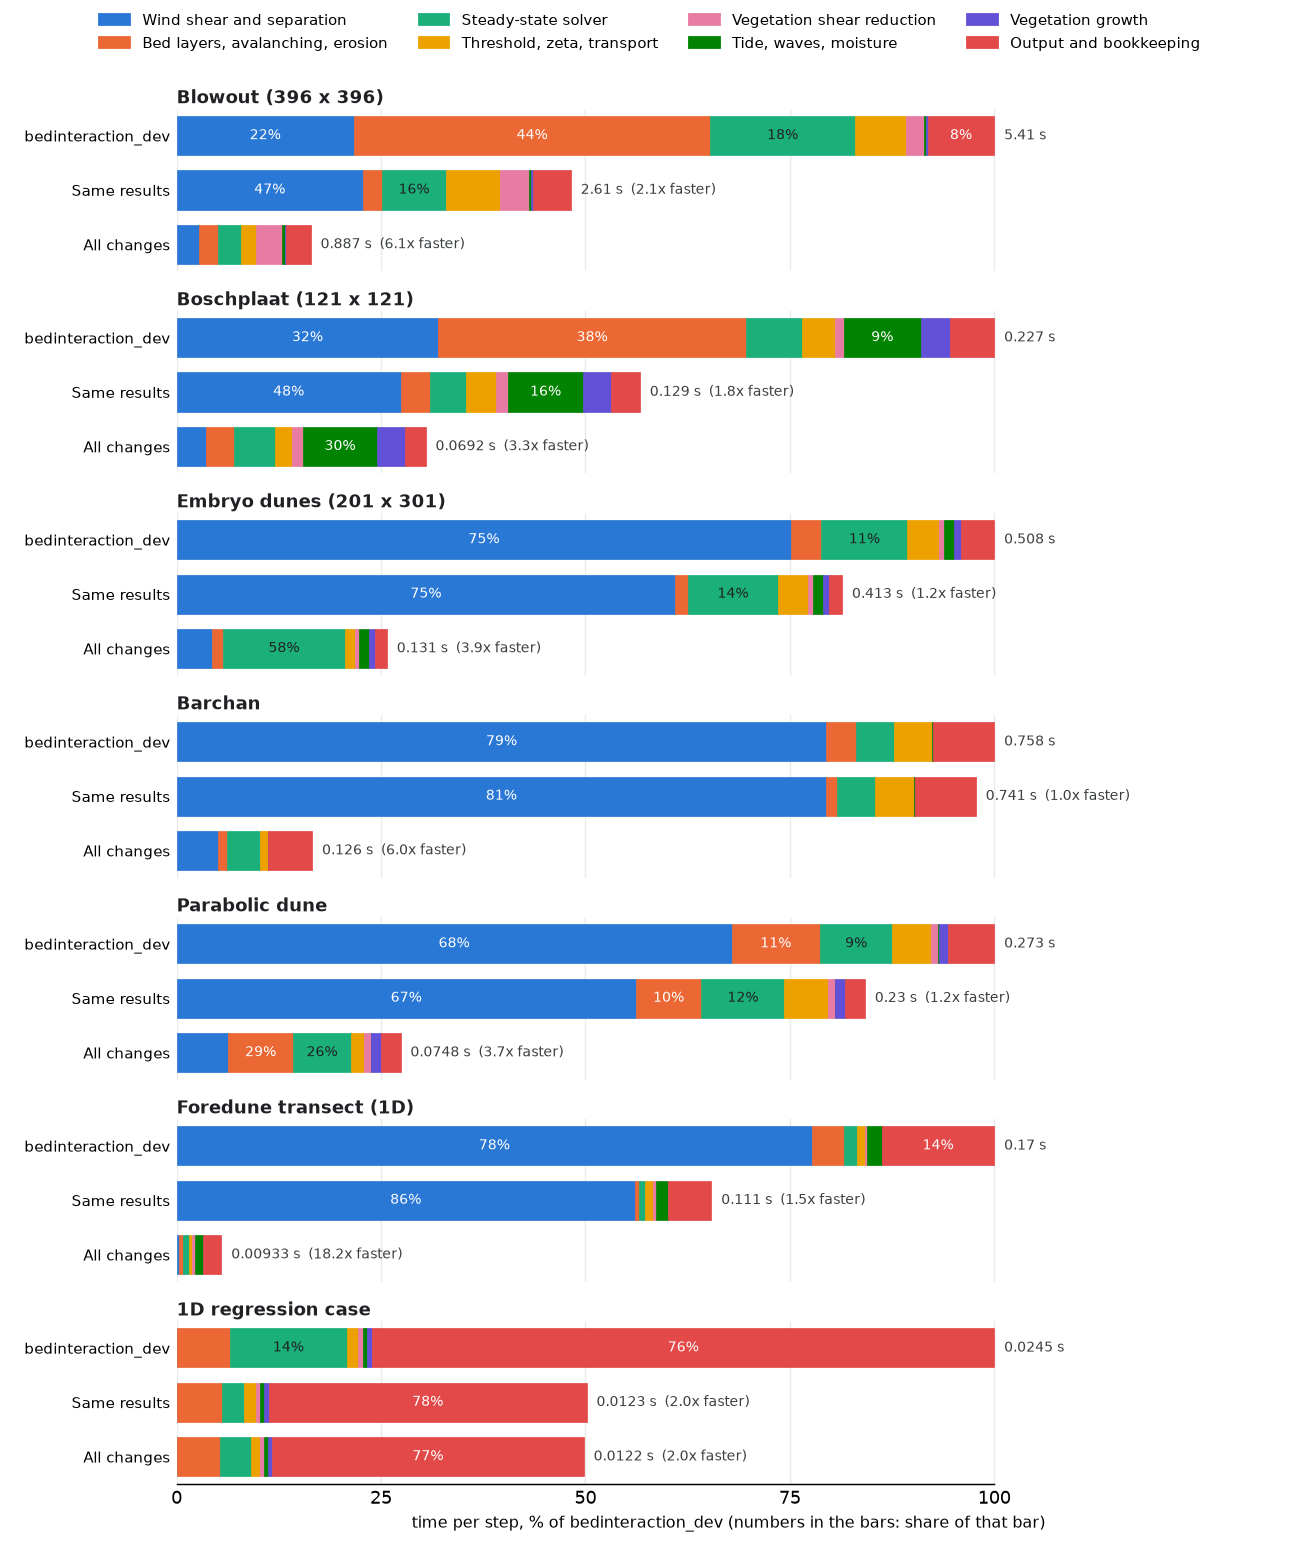
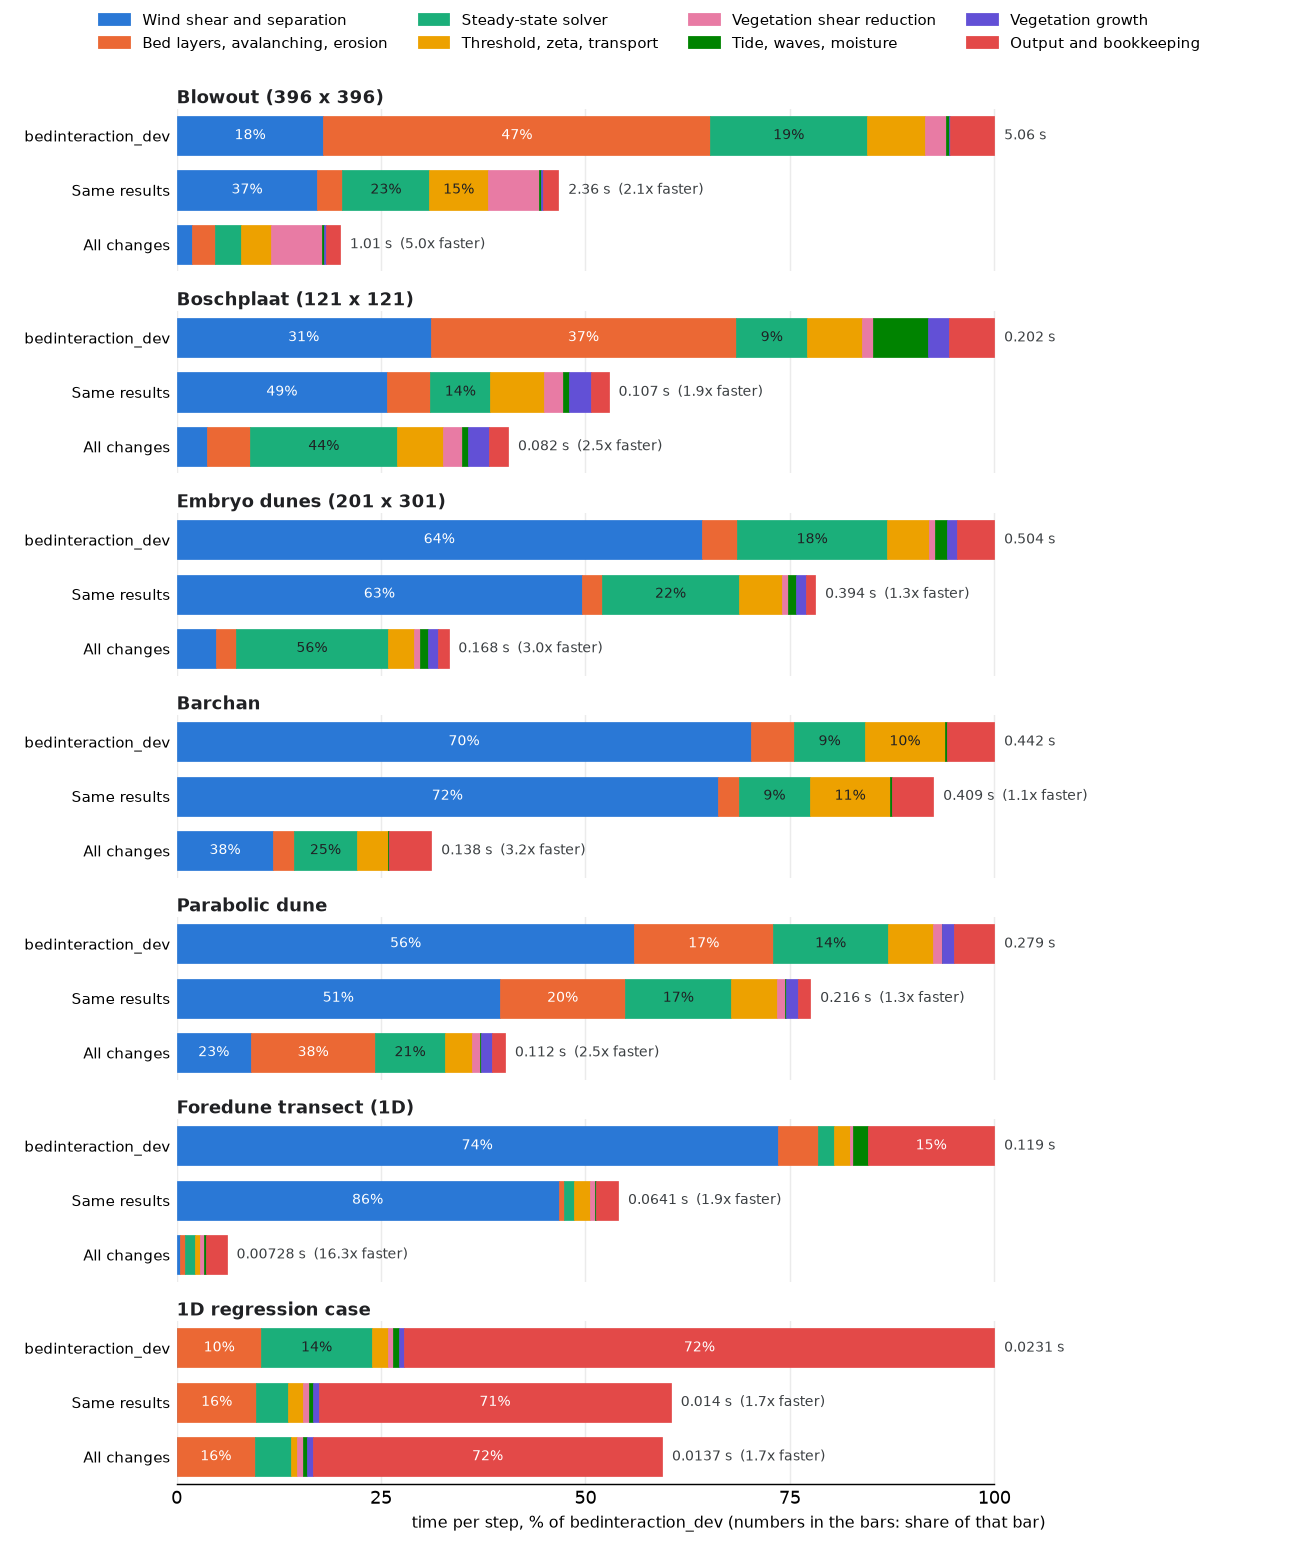
CHANGES.md: cluster timings per version and per change (batch hpc_11)
The speed tables, the per-change speed-ups, the change in results per
change and the component figures now come from one node per case on the
HYDRAX cluster: three interleaved repeats of the short cases, single
longer runs and the ten-year Boschplaat run. Adds the exact speed-ups
(6ff269c) to section 6 and the growth of rounding differences of the
combined transport on the parabolic dune to section 4.

diff --git a/CHANGES.md b/CHANGES.md
@@ -20,40 +20,73 @@ back to the old behaviour.
 
 ## Improvements
 
-The table shows the run time of six cases on one workstation. The first column is
-`bedinteraction_dev`. The second column adds only the changes that keep the results the same. The third
-column also includes the changes that alter results: the new shear method (`method_shear = fft_grid`),
-the new solver order and the repaired time step.
+We measured every version on one core of the Deltares cluster (HYDRAX, 22 October 2026). All versions
+of a case ran one after the other on the same node, so they share the same hardware. The first column
+is `bedinteraction_dev`. The second column adds only the changes that keep the results the same. The
+third column also includes the changes that alter results: the new shear method (`method_shear =
+fft_grid`, with its default settings), the new solver order, the combined transport calculations and the
+repaired time step.
 
 | Case | `bedinteraction_dev` | Same results | All changes | Speed-up |
 |---|---:|---:|---:|---:|
-| Blowout, 2 days (396 × 396 cells) | 287 s | 160 s | 76 s | 3.8× |
-| Foredune transect, 7 days | 42 s | 19 s | 2 s | 20× |
-| Barchan, 7 days | 147 s | 137 s | 25 s | 5.9× |
-| Parabolic dune, 7 days | 60 s | 42 s | 13 s | 4.6× |
-| Embryo dunes, 7 days | 452 s | 360 s | 25 s | 18× |
-| Boschplaat, 30 days (121 × 121 cells) | 176 s | 95 s | 53 s | 3.3× |
+| Blowout, 14 days (396 × 396 cells) | 2055 s | 905 s | 353 s | 5.8× |
+| Foredune transect, 1 year | 1079 s | 671 s | 66 s | 16× |
+| Barchan, 60 days | 780 s | 723 s | 217 s | 3.6× |
+| Parabolic dune, 60 days | 468 s | 406 s | 170 s | 2.8× |
+| Embryo dunes, 60 days | 1423 s | 1156 s | 208 s | 6.8× |
+| Boschplaat, 1 year (121 × 121 cells) | 2162 s | 1111 s | 662 s | 3.3× |
 
-For a longer run: ten years of the Boschplaat at hourly steps take about 5 hours on one core of the
-Deltares cluster with `bedinteraction_dev`. The same run takes 3.1 to 3.5 hours with the changes that
-keep the results the same, and about 2 hours with the new shear method.
+These are single runs. Shorter runs of the same cases (2 to 30 days), each repeated three times in turn,
+give the same picture. Their medians are in the next table.
+
+For a longer run: ten years of the Boschplaat at hourly steps take 4.8 hours with `bedinteraction_dev`,
+2.7 hours with the changes that keep the results the same, and 1.3 hours with all changes. The last run
+uses the new shear method with the settings calibrated for this case.
 
 ### Contribution per change
 
-1. **Wind shear on the model grid** (section 1) gives the largest gain. It makes the model 2 to 8 times
-   faster on its own. It also changes the results more than any other commit.
-2. **Bed layers in compiled code** (section 2) give the largest gain without any change in results.
-3. **The new solver order** (section 3) saves another 20 to 30 % on large 2D grids. On the 121 × 121
-   Boschplaat grid it saves almost nothing.
-4. **Combined transport calculations** (section 4) make the transport and zeta steps 3 to 6 times faster.
-5. **Start-up and output** (section 6) matter only for small and 1D runs. There, they took most of the
-   run time. The 1D regression case now runs in 2 s instead of 12 s.
-6. **The repaired time step** (section 5) fixes errors. It hardly changes the run time.
+We ran each change that alters results on its own, on top of the changes that keep the results the
+same. The table gives the speed-up of each version over "Same results", from the median of three runs.
+The second column gives the speed-up of "Same results" over `bedinteraction_dev`.
+
+| Case | Same results | Combined transport | Solver order | Time step | Shear on the model grid | All changes |
+|---|---:|---:|---:|---:|---:|---:|
+| Blowout, 2 days | 2.2× | 1.08× | 1.21× | 0.96× | 1.43× | 2.1× |
+| Foredune transect, 7 days | 2.7× | 1.02× | 1.00× | 1.01× | 6.6× | 7.7× |
+| Barchan, 7 days | 1.22× | 1.08× | 1.02× | 1.00× | 2.4× | 2.9× |
+| Parabolic dune, 7 days | 1.62× | 1.03× | 1.07× | 1.02× | 1.67× | 1.89× |
+| Embryo dunes, 7 days | 1.32× | 1.01× | 0.96× | 0.99× | 9.5× | 9.1× |
+| Boschplaat, 30 days | 2.0× | 1.02× | 0.99× | 0.99× | 1.30× | 1.25× |
+
+1. **Wind shear on the model grid** (section 1) gives the largest gain: 1.3 to 9.5 times faster on its
+   own. It also changes the results more than any other commit.
+2. **Bed layers in compiled code** (section 2), the faster time-series lookups (section 6) and the other
+   changes that keep the results the same make the model 1.2 to 2.7 times faster.
+3. **The new solver order** (section 3) saves 20 % on the blowout. On the other cases it saves almost
+   nothing.
+4. **Combined transport calculations** (section 4) save up to 8 %.
+5. **The repaired time step** (section 5) fixes errors. It hardly changes the run time.
+
+The next table shows how much each change alters the results. It gives the rms difference of the final
+bed from `bedinteraction_dev`, in mm, for the longer runs of the first table. The rms of the bed change
+itself is given for scale.
+
+| Case | Bed change | Combined transport | Solver order | Time step | Shear on the model grid | All changes |
+|---|---:|---:|---:|---:|---:|---:|
+| Blowout, 14 days | 89 | 0 | 0.5 | 5.4 | 27 | 27 |
+| Foredune transect, 1 year | 556 | < 0.001 | 6.8 | 5.1 | 189 | 192 |
+| Barchan, 60 days | 7 | 0 | 0.05 | 1.1 | 1.2 | 1.3 |
+| Parabolic dune, 60 days | 381 | 0.45 | 0.49 | 5.9 | 6.2 | 7.0 |
+| Embryo dunes, 60 days | 40 | 0 | < 0.001 | 5.8 | 23 | 23 |
+| Boschplaat, 1 year | 573 | 0 | 11.5 | 24 | 179 | 171 |
+
+The changes that keep the results the same gave output identical to the last bit in all 15
+comparisons, including the ten-year Boschplaat run.
 
 ### Computation time per model component
 
 We measured the time per step of each part of the model for seven cases. The measurement leaves out
-start-up and compilation. It was made on 14 October 2026, on the same workstation as the table above.
+start-up and compilation. It comes from the same runs as the table above (median of three).
 
 The first figure shows which parts became faster. Each case has three bars: `bedinteraction_dev`, the
 changes that keep results the same, and all changes. The length of a bar is its time per step, as a
@@ -68,27 +101,29 @@ takes the most time now.
 
 Improved components:
 
-- **Wind shear** took 68 to 79 % of the time on the barchan, parabolic dune, embryo dunes and foredune.
-  The new shear method cuts it by a factor of 11 to 17 on the 2D cases. On the foredune transect, the
+- **Wind shear** took 56 to 74 % of the time on the barchan, parabolic dune, embryo dunes and foredune.
+  The new shear method cuts it by a factor of 4 to 13 on the 2D cases. On the foredune transect, the
   shear now takes almost no time at all.
-- **Bed layers** took 44 % on the blowout and 38 % on the Boschplaat. The compiled bed code cuts this
-  part by a factor of 10 to 18.
-- **The solver** on the blowout went from 0.96 s to 0.15 s per step.
-- **Transport** on the blowout went from 0.34 s to 0.10 s per step.
+- **Bed layers** took 47 % on the blowout and 37 % on the Boschplaat. The compiled bed code cuts this
+  part by a factor of 7 to 15.
+- **Tide, waves and moisture** took 7 % on the Boschplaat. The faster time-series lookups cut this part
+  by a factor of 7.
+- **The solver** on the blowout went from 0.97 s to 0.16 s per step.
+- **Transport** on the blowout went from 0.36 s to 0.19 s per step.
 
 Remaining bottlenecks:
 
-- **The solver** now takes the largest share on the embryo dunes (58 %), the parabolic dune (26 %) and
-  the barchan (24 %). These cases have periodic boundaries. Sand that leaves one side enters at the other,
-  so the solver still needs several passes per step.
-- **Tide, waves and moisture** now take 30 % on the Boschplaat. We have not touched this part.
-- **Vegetation shear reduction** takes 19 % on the blowout. It did not become faster (0.11 s per step
-  before, 0.17 s after).
-- **Output and bookkeeping** dominate small and 1D runs: 42 % on the foredune transect and 77 % on the
+- **The solver** now takes the largest share on the embryo dunes (56 %), the Boschplaat (44 %) and the
+  barchan (25 %). The embryo dunes and the barchan have periodic boundaries. Sand that leaves one side
+  enters at the other, so the solver still needs several passes per step. On the Boschplaat, the new
+  solver order takes 0.036 s per step with the new shear, against 0.015 s with the old shear.
+- **Vegetation shear reduction** takes 31 % on the blowout. It became slower: 0.13 s per step before and
+  0.32 s after. We have not yet found out why.
+- **Output and bookkeeping** dominate small and 1D runs: 42 % on the foredune transect and 72 % on the
   1D regression case.
-- **Bed layers** still take 29 % on the parabolic dune.
+- **Bed layers** still take 38 % on the parabolic dune.
 
-The speed-ups per step in the figures are larger than the speed-ups of whole runs in the table above.
+The speed-ups per step in the figures differ from the speed-ups of whole runs in the tables above.
 Whole runs also include start-up, and some cases take more or fewer steps with the new code.
 
 ## 1. Wind shear on the model grid
@@ -178,7 +213,9 @@ operations per time step. Each operation passed over the whole grid. Now one com
 it per cell. On the blowout, transport takes 0.05 s per step instead of 0.28 s, and zeta takes 0.02 s
 instead of 0.07 s.
 
-The results differ from the numpy version by about 1e-12. These differences come from rounding.
+The results differ from the numpy version by about 1e-12. These differences come from rounding. On
+most cases they stay that small: after 60 days to a year, the final bed differs by less than 1 µm. On
+the parabolic dune they grow: after 60 days the bed differs by up to 2.7 cm (rms 0.45 mm).
 `fused_kernels = F` switches back to the numpy version.
 
 | Commit | What it does |
@@ -216,7 +253,7 @@ gives the old behaviour.
 Main files: [`aeolis/model.py`](aeolis/model.py), [`aeolis/bed.py`](aeolis/bed.py) and
 [`aeolis/constants.py`](aeolis/constants.py).
 
-## 6. Start-up and output
+## 6. Start-up, output and bookkeeping
 
 | Commit | What it does |
 |---|---|
@@ -224,9 +261,11 @@ Main files: [`aeolis/model.py`](aeolis/model.py), [`aeolis/bed.py`](aeolis/bed.p
 | [`3ae5283`](https://github.com/openearth/aeolis-python/commit/3ae5283) | Opens the netCDF file once per output time instead of twice, and stops copying output variables that have no statistics. |
 | [`d4bd5b2`](https://github.com/openearth/aeolis-python/commit/d4bd5b2) | Uses half the logical processors by default and lets idle threads sleep instead of wait actively. The environment variable `AEOLIS_THREADS` sets another number. |
 | [`a76e51e`](https://github.com/openearth/aeolis-python/commit/a76e51e) | Skips the grid rotation when the grid is not rotated. |
+| [`6ff269c`](https://github.com/openearth/aeolis-python/commit/6ff269c) | Looks up the tide, waves and wind of each time step faster. The time series are stored column by column, and the sine and cosine of the wind direction are computed only for the record in use. Also sums the bed layers in place, computes A and B of `fca2010` once per wavenumber and rotates with `np.dot`. On the Boschplaat, a step takes about 40 % less time. |
 
 All of these keep the results the same. Main files: [`aeolis/netcdf.py`](aeolis/netcdf.py),
-[`aeolis/model.py`](aeolis/model.py) and [`aeolis/__init__.py`](aeolis/__init__.py).
+[`aeolis/model.py`](aeolis/model.py), [`aeolis/utils.py`](aeolis/utils.py) and
+[`aeolis/__init__.py`](aeolis/__init__.py).
 
 ## 7. Bug fixes
 
